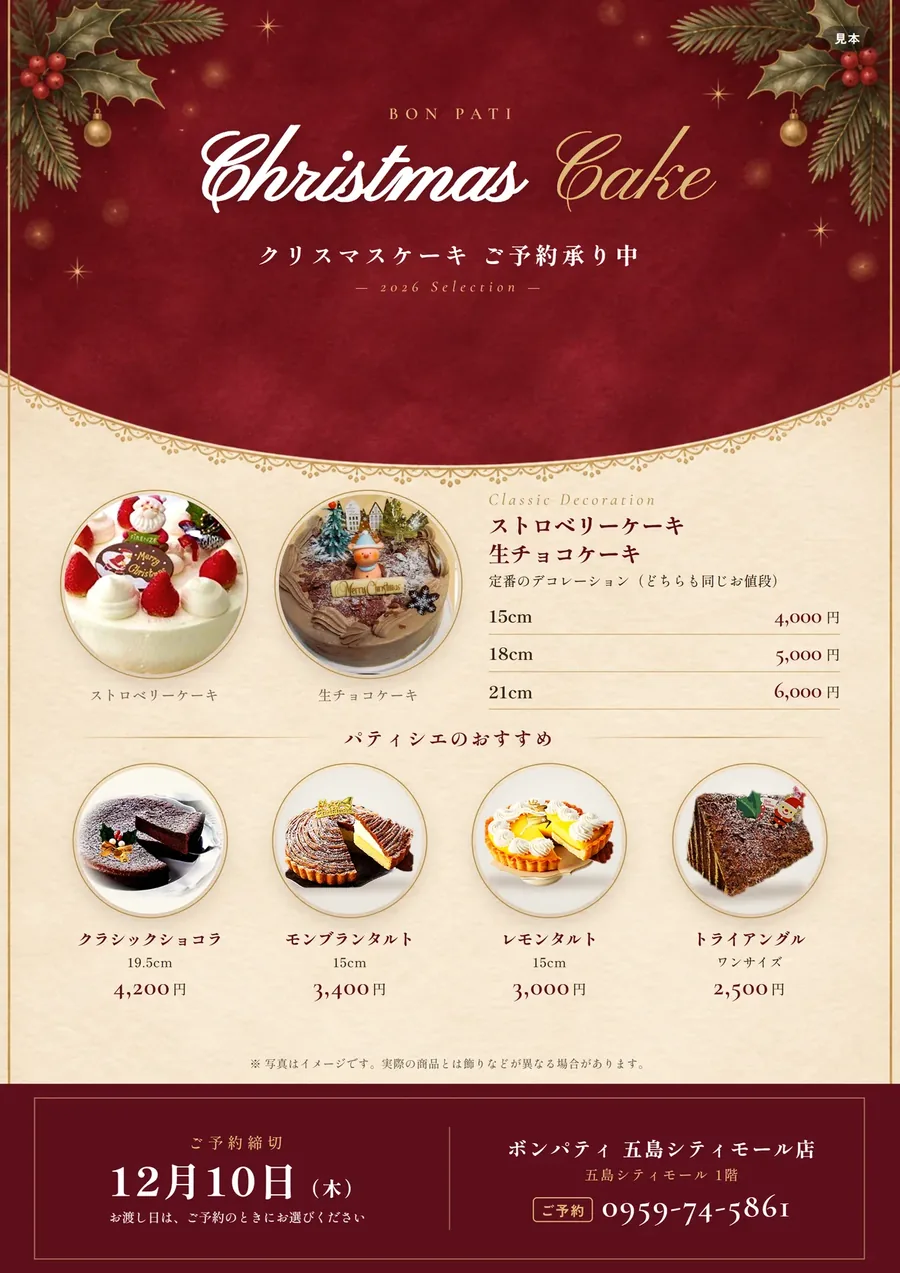
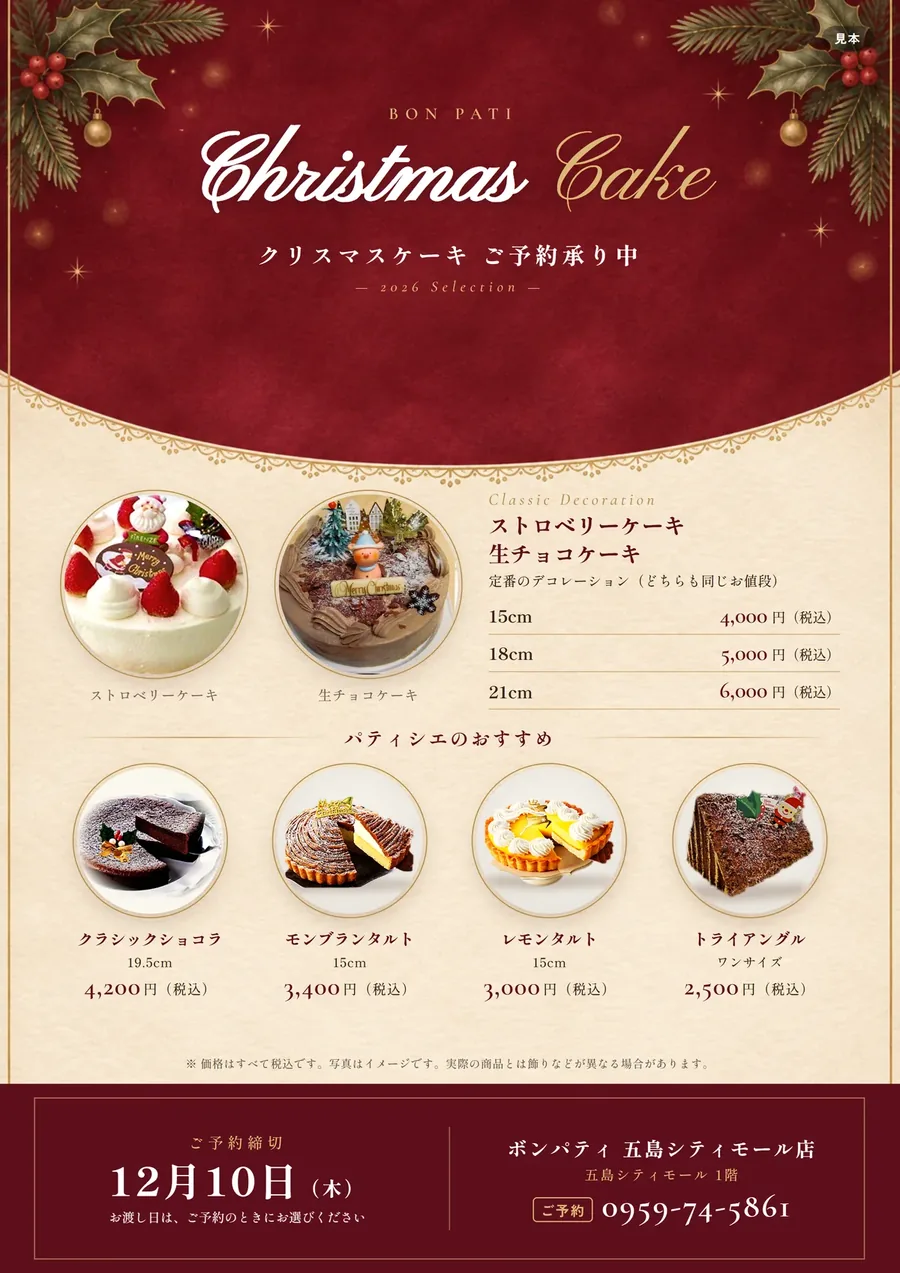
ボンパティ様の見本チラシを税込表示に・LINE文面5通目を更新

diff --git a/studio/goto-citymall-1123-jptrq/index.html b/studio/goto-citymall-1123-jptrq/index.html
@@ -756,9 +756,8 @@ https://hinagado.github.io/studio/goto-citymall-post/flyer/send.html
   <div class="card aft-line"><div class="aft-hd"><b>5. 追加で教えていただきたいこと・お願い</b><button type="button" class="aft-copy" data-copy="aftl5">コピー</button></div><pre id="aftl5">【追加で教えていただきたいこと】
 分かるものからで大丈夫です。
 
-①ボンパティ様のチラシの値段
-いただいた資料の今年の欄のとおりに載せています。この値段が税込かどうか、教えていただけますか。
-あわせて、ストロベリーケーキの元の写真（できるだけ大きいもの）があれば、お送りいただけますか。見本では去年のチラシの写真を使ったため小さく、印刷に使うには細かさが足りません。
+①ボンパティ様のストロベリーケーキの写真
+ストロベリーケーキの元の写真（できるだけ大きいもの）があれば、お送りいただけますか。見本では去年のチラシの写真を使ったため小さく、印刷に使うには細かさが足りません。
 
 ②館内の現在地QRの場所
 23日に選んでいただいた次の7か所でお作りします（番号は、候補の一覧の番号のままです）。

diff --git a/studio/goto-citymall-post/manual/box.html b/studio/goto-citymall-post/manual/box.html
@@ -79,7 +79,7 @@ a{color:var(--c)}
 <figure><img class="" src="after_front.webp" width="900" height="1273" alt="仕上がりの見本・表" loading="lazy" decoding="async"><figcaption>仕上がり・表</figcaption></figure>
 <figure><img class="" src="after_back.webp" width="900" height="1273" alt="仕上がりの見本・裏（予約申込書）" loading="lazy" decoding="async"><figcaption>仕上がり・裏<br>（予約申込書）</figcaption></figure>
 </div>
-<p style="font-size:15px;color:var(--muted);margin-top:8px">値段は、いただいた資料の今年の欄のとおりです。税込かどうかを確認中です。</p>
+<p style="font-size:15px;color:var(--muted);margin-top:8px">値段は、いただいた資料の今年の欄のとおりで、すべて税込の表示です。</p>
 
 <h2 id="how">使い方（8つの手順）</h2>
 <ol class="steps">

diff --git a/studio/goto-citymall-1123-jptrq/sw.js b/studio/goto-citymall-1123-jptrq/sw.js
@@ -1,7 +1,7 @@
 /* このファイルは _offline/make_sw.mjs から生成されます。直接編集しないでください。 */
 "use strict";
 
-const CACHE_NAME = "gcm-goto-citymall-1123-jptrq-37fd02607c1c";
+const CACHE_NAME = "gcm-goto-citymall-1123-jptrq-22cc324a8a8f";
 const CACHE_PREFIX = "gcm-goto-citymall-1123-jptrq-";
 const FONT_CACHE = "gcm-fonts-v1";
 const PRE = [

diff --git a/studio/goto-citymall-demo/sw.js b/studio/goto-citymall-demo/sw.js
@@ -1,7 +1,7 @@
 /* このファイルは _offline/make_sw.mjs から生成されます。直接編集しないでください。 */
 "use strict";
 
-const CACHE_NAME = "gcm-goto-citymall-demo-2f6e2d240d12";
+const CACHE_NAME = "gcm-goto-citymall-demo-1280520815fd";
 const CACHE_PREFIX = "gcm-goto-citymall-demo-";
 const FONT_CACHE = "gcm-fonts-v1";
 const PRE = [

diff --git a/studio/goto-citymall-post/sw.js b/studio/goto-citymall-post/sw.js
@@ -1,7 +1,7 @@
 /* このファイルは _offline/make_sw.mjs から生成されます。直接編集しないでください。 */
 "use strict";
 
-const CACHE_NAME = "gcm-goto-citymall-post-08bdf62fa81a";
+const CACHE_NAME = "gcm-goto-citymall-post-5298143b81c9";
 const CACHE_PREFIX = "gcm-goto-citymall-post-";
 const FONT_CACHE = "gcm-fonts-v1";
 const PRE = [
